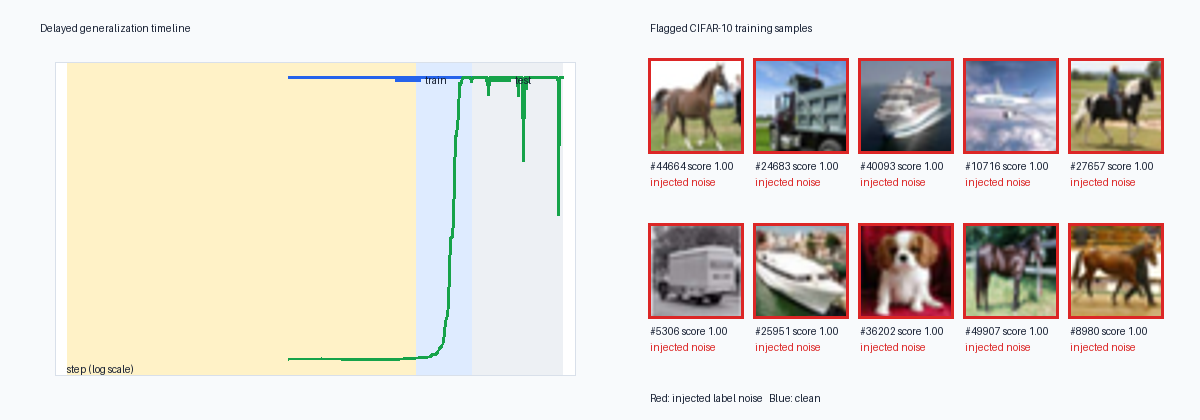
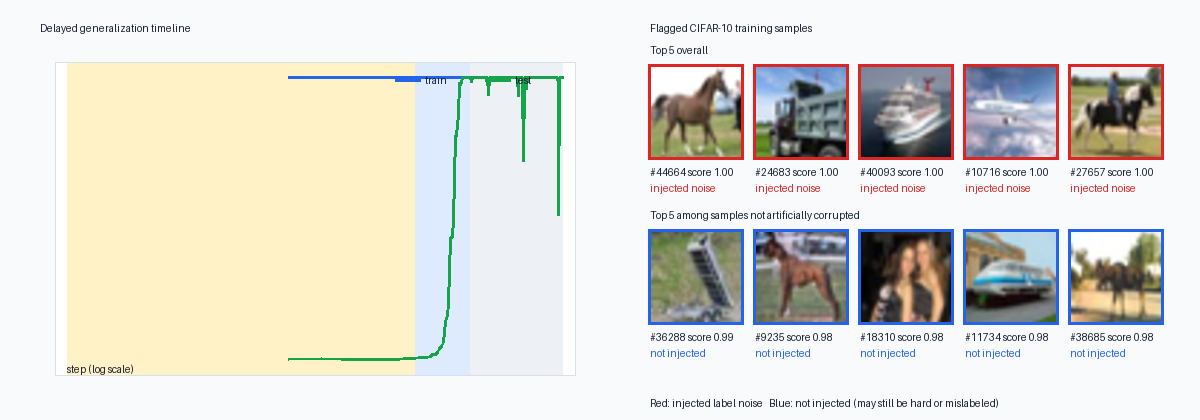
first bench run

Changed region(s): [[0.5242, 0.4952, 0.9867, 0.8667], [0.5242, 0.0929, 0.9867, 0.4643], [0.5242, 0.9286, 0.8325, 0.9905]]

diff --git a/case_studies/render_readme_asset.py b/case_studies/render_readme_asset.py
@@ -33,6 +33,22 @@ def parse_args() -> argparse.Namespace:
     return parser.parse_args()
 
 
+def gallery_indices(
+    scores: np.ndarray, noise_mask: np.ndarray, count: int = 5
+) -> tuple[np.ndarray, np.ndarray]:
+    """Return the highest-ranked overall and non-injected examples."""
+    if scores.shape != noise_mask.shape:
+        raise ValueError("scores and noise_mask must have the same shape")
+    if count < 1:
+        raise ValueError("count must be positive")
+    order = np.argsort(scores, kind="stable")[::-1]
+    overall = order[:count]
+    not_injected = order[~noise_mask[order]][:count]
+    if len(not_injected) < count:
+        raise ValueError(f"need at least {count} non-injected examples")
+    return overall, not_injected
+
+
 def main() -> None:
     """Draw a real accuracy timeline beside real flagged CIFAR thumbnails."""
     args = parse_args()
@@ -76,23 +92,29 @@ def main() -> None:
     cs1_root = Path(args.cs1_run)
     cs1 = read_run(cs1_root)
     scores = suspicion_score(compute_event_stats(cs1))
-    selected = np.argsort(scores)[::-1][:10]
     subset_indices = np.load(cs1_root / "subset_indices.npy")
     noise = np.load(cs1_root / "noise_mask.npy")
+    overall, not_injected = gallery_indices(scores, noise)
     raw = CIFAR10(args.data_dir, train=True, download=False)
-    for position, index in enumerate(selected):
-        column, row = position % 5, position // 5
-        x = 650 + column * 105
-        y = 60 + row * 165
-        thumbnail = raw[int(subset_indices[index])][0].resize((92, 92))
-        canvas.paste(thumbnail, (x, y))
-        color = "#dc2626" if noise[index] else "#2563eb"
-        draw.rectangle((x - 2, y - 2, x + 93, y + 93), outline=color, width=3)
-        draw.text((x, y + 100), f"#{int(index)} score {scores[index]:.2f}", fill=INK, font=font)
-        draw.text(
-            (x, y + 116), "injected noise" if noise[index] else "clean", fill=color, font=font
-        )
-    draw.text((650, 392), "Red: injected label noise   Blue: clean", fill=INK, font=font)
+    draw.text((650, 44), "Top 5 overall", fill=INK, font=font)
+    draw.text((650, 209), "Top 5 among samples not artificially corrupted", fill=INK, font=font)
+    for row, selected in enumerate((overall, not_injected)):
+        for column, index in enumerate(selected):
+            x = 650 + column * 105
+            y = 66 + row * 165
+            thumbnail = raw[int(subset_indices[index])][0].resize((92, 92))
+            canvas.paste(thumbnail, (x, y))
+            color = "#dc2626" if noise[index] else "#2563eb"
+            draw.rectangle((x - 2, y - 2, x + 93, y + 93), outline=color, width=3)
+            draw.text((x, y + 100), f"#{int(index)} score {scores[index]:.2f}", fill=INK, font=font)
+            label = "injected noise" if noise[index] else "not injected"
+            draw.text((x, y + 116), label, fill=color, font=font)
+    draw.text(
+        (650, 397),
+        "Red: injected label noise   Blue: not injected (may still be hard or mislabeled)",
+        fill=INK,
+        font=font,
+    )
 
     output = Path(args.out)
     output.parent.mkdir(parents=True, exist_ok=True)

diff --git a/tests/test_case_studies.py b/tests/test_case_studies.py
@@ -9,6 +9,7 @@ from case_studies.mid_digits_noise.train import inject_label_noise as inject_dig
 from case_studies.quick_influence_sanity.run import audit_gradients
 from case_studies.quick_influence_sanity.run import make_data as make_influence_data
 from case_studies.quick_label_noise.run import make_data
+from case_studies.render_readme_asset import gallery_indices
 
 
 def test_label_noise_artifact_is_exact_and_reproducible():
@@ -43,6 +44,16 @@ def test_quick_label_noise_data_is_reproducible_and_exact():
 def test_detector_rank_preserves_ties():
     ranks = rank01(np.array([-2.0, -2.0, 1.0, 4.0, 4.0]))
     np.testing.assert_allclose(ranks, [0.125, 0.125, 0.5, 0.875, 0.875])
+
+
+def test_readme_gallery_includes_truthfully_labeled_non_injected_examples():
+    scores = np.array([0.9, 0.8, 0.7, 0.6, 0.5, 0.4])
+    noise = np.array([True, True, False, True, False, False])
+    overall, not_injected = gallery_indices(scores, noise, count=2)
+    np.testing.assert_array_equal(overall, [0, 1])
+    np.testing.assert_array_equal(not_injected, [2, 4])
+    assert noise[overall].all()
+    assert not noise[not_injected].any()
 
 
 def test_quick_influence_data_is_reproducible_and_standardized():
